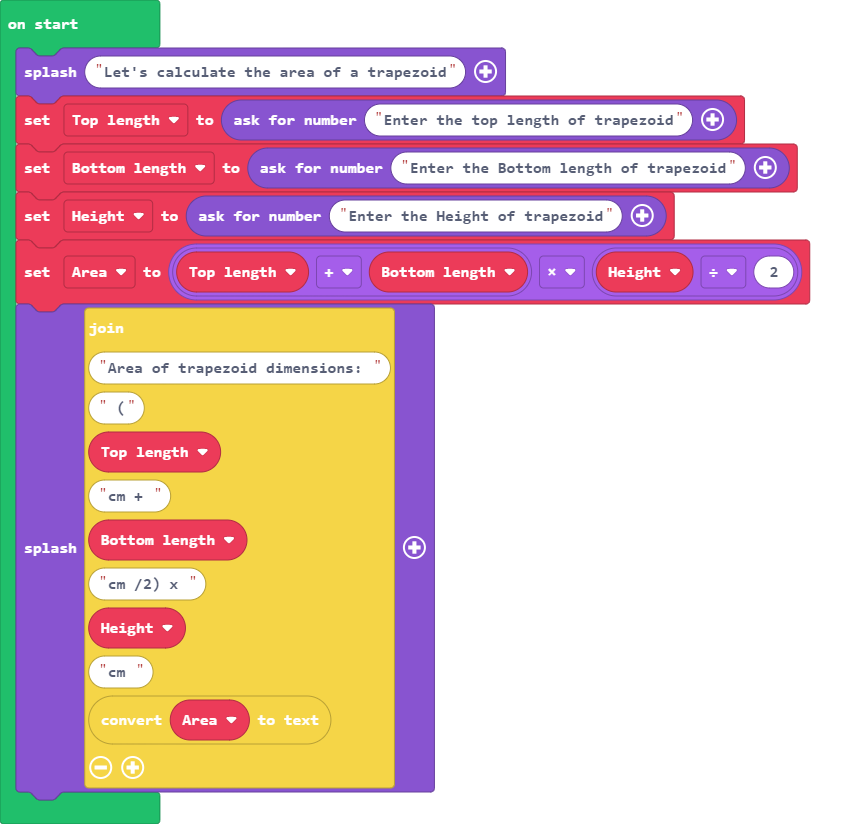
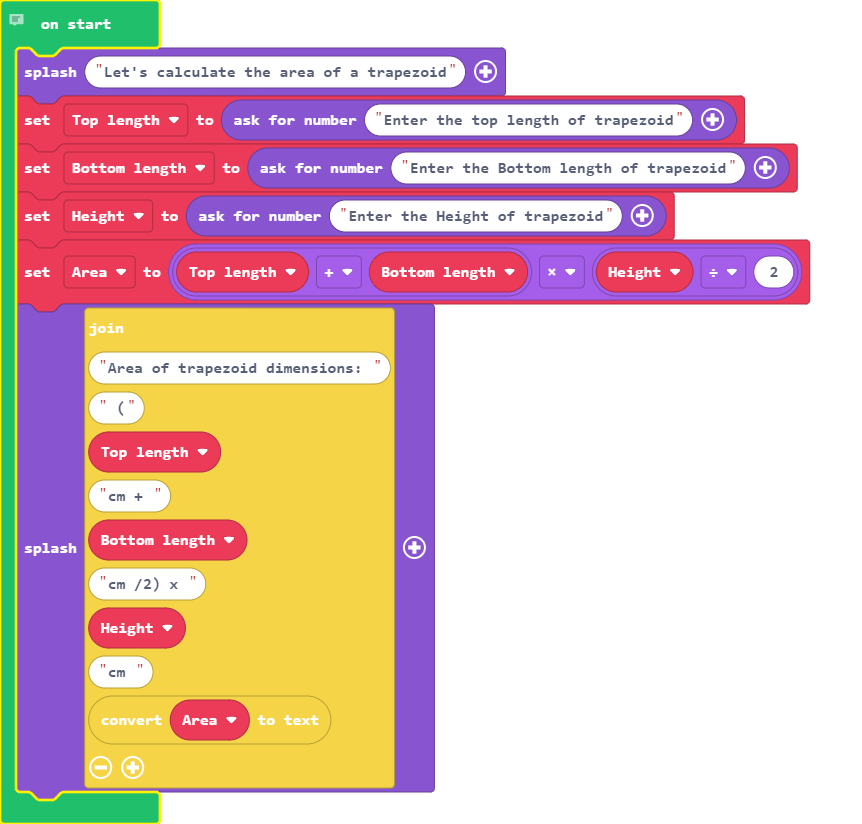
Update main.blocks, main.ts

Changed region(s): [[0.0, 0.0, 0.2111, 1.0], [0.181, 0.9709, 0.2111, 1.0]]

diff --git a/main.ts b/main.ts
@@ -1,3 +1,7 @@
+// Created by: Evan
+// Created on: Oct. 2020
+// 
+// This program calculates the area of a trapezoid
 game.splash("Let's calculate the area of a trapezoid")
 let Top_length = game.askForNumber("Enter the top length of trapezoid")
 let Bottom_length = game.askForNumber("Enter the Bottom length of trapezoid")
